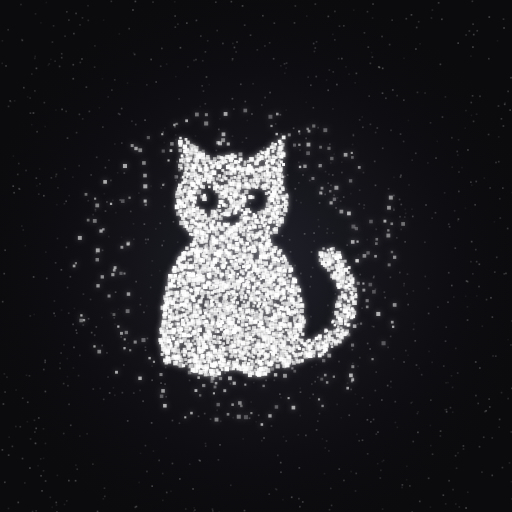
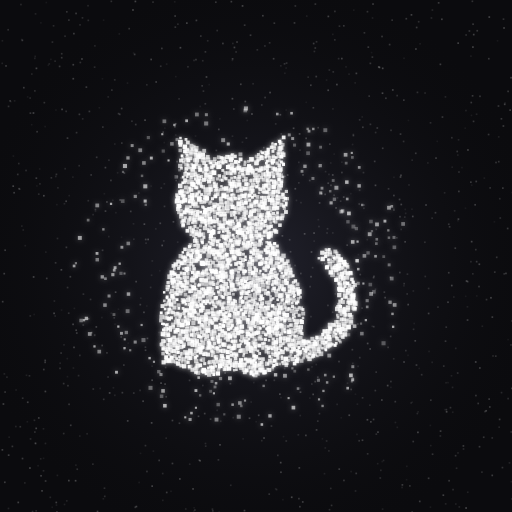
小猫改成背影；桌面新增第二页放全部应用
开屏和图标的小猫去掉眼睛鼻子，改为背影。
桌面可左右滑动翻页：第一页是原桌面，第二页按「聊天与角色 / 生活与娱乐 / 游戏与工具」分组放全部 20 个应用图标，底部页码点可点击切换。

Claude-Session: https://claude.ai/code/session_01Kju9AuUhCjB8j9UKvKX9Kv

diff --git a/fun-desk.js b/fun-desk.js
@@ -1,0 +1,109 @@
+"use strict";
+
+/**
+ * 桌面第二页：左右滑动切换，把所有 app 做成图标铺在桌面上
+ * 第一页是原来的桌面（.layout-shell 原样搬进翻页容器，不改内部结构）
+ */
+(function () {
+  const phone = document.getElementById("phone");
+  const shell = phone && phone.querySelector(".layout-shell");
+  if (!phone || !shell || document.getElementById("desk-pager")) return;
+
+  const fun = (k) => () => (typeof window.openFunApp === "function" ? window.openFunApp(k) : null);
+  const call = (fn) => () => {
+    const f = window[fn];
+    if (typeof f === "function") f();
+    else if (typeof showToast === "function") showToast("模块还在加载，稍等一下");
+  };
+  /** [名称, Phosphor 图标, 色相, 打开方式] */
+  const SECTIONS = [
+    {
+      title: "聊天与角色",
+      apps: [
+        ["聊天", "ph-chat-circle-text", 215, call("openChatListScreen")],
+        ["Bubble", "ph-chat-teardrop-dots", 280, fun("Bubble")],
+        ["角色人设", "ph-identification-card", 250, call("openCharScreen")],
+        ["世界书", "ph-book-open-text", 30, call("openWorldBookScreen")],
+        ["关系", "ph-heart-straight", 345, call("openRelationScreen")],
+        ["查岗", "ph-device-mobile-camera", 190, call("openCheckupScreen")],
+        ["漫游", "ph-footprints", 140, call("openRoamScreen")],
+        ["情侣小屋", "ph-house-simple", 335, fun("情侣小屋")]
+      ]
+    },
+    {
+      title: "生活与娱乐",
+      apps: [
+        ["音乐", "ph-music-notes", 260, fun("音乐")],
+        ["刷刷", "ph-film-strip", 0, fun("短视频")],
+        ["微博", "ph-fire", 22, fun("微博")],
+        ["Sprout", "ph-plant", 120, fun("Sprout")],
+        ["论坛", "ph-newspaper", 205, call("openForumScreen")],
+        ["Meow Mart", "ph-shopping-bag", 18, fun("Meow Mart")],
+        ["Pocket Town", "ph-house-line", 95, fun("Pocket Town")],
+        ["星座", "ph-moon-stars", 265, fun("星座")]
+      ]
+    },
+    {
+      title: "游戏与工具",
+      apps: [
+        ["游戏厅", "ph-game-controller", 300, fun("游戏厅")],
+        ["资源站", "ph-package", 175, fun("资源站")],
+        ["我的", "ph-user-circle", 230, call("openMyScreen")],
+        ["设置", "ph-gear-six", 220, call("openSettings")]
+      ]
+    }
+  ];
+
+  const pager = document.createElement("section");
+  pager.id = "desk-pager";
+  pager.className = "desk-pager";
+  shell.parentNode.insertBefore(pager, shell);
+  pager.appendChild(shell);
+  shell.classList.add("desk-page");
+
+  const page2 = document.createElement("section");
+  page2.className = "desk-page desk-apps";
+  page2.setAttribute("aria-label", "全部应用");
+  let i = 0;
+  const handlers = [];
+  page2.innerHTML = SECTIONS.map(
+    (sec) =>
+      `<p class="desk-apps-k">${sec.title}</p><div class="desk-apps-grid">${sec.apps
+        .map(([name, icon, h, fn]) => {
+          handlers.push(fn);
+          return `<button type="button" class="desk-app" data-i="${i++}" style="--h:${h}"><span class="desk-app-ico"><i class="ph ${icon}"></i></span><span class="desk-app-name">${name}</span></button>`;
+        })
+        .join("")}</div>`
+  ).join("");
+  pager.appendChild(page2);
+  page2.addEventListener("click", (e) => {
+    const b = e.target.closest(".desk-app");
+    if (b) handlers[Number(b.dataset.i)]();
+  });
+
+  const dots = document.createElement("div");
+  dots.className = "desk-dots";
+  dots.innerHTML = `<i class="is-on"></i><i></i>`;
+  phone.appendChild(dots);
+  const sync = () => {
+    const p = Math.round(pager.scrollLeft / Math.max(1, pager.clientWidth));
+    dots.children[0].classList.toggle("is-on", p === 0);
+    dots.children[1].classList.toggle("is-on", p === 1);
+  };
+  pager.addEventListener("scroll", sync, { passive: true });
+  dots.addEventListener("click", (e) => {
+    const k = [...dots.children].indexOf(e.target);
+    if (k >= 0) pager.scrollTo({ left: k * pager.clientWidth, behavior: "smooth" });
+  });
+  // 电脑上用鼠标滚轮横向切页
+  pager.addEventListener(
+    "wheel",
+    (e) => {
+      if (Math.abs(e.deltaX) > Math.abs(e.deltaY) && Math.abs(e.deltaX) > 20) {
+        e.preventDefault();
+        pager.scrollTo({ left: (e.deltaX > 0 ? 1 : 0) * pager.clientWidth, behavior: "smooth" });
+      }
+    },
+    { passive: false }
+  );
+})();

diff --git a/fun.css b/fun.css
@@ -5101,3 +5101,127 @@ body.dark .mm-dimg {
   border-color: #e60026 !important;
   color: #fff !important;
 }
+
+/* ═════════ 桌面翻页 + 第二页全部应用 ═════════ */
+.desk-pager {
+  grid-row: 3;
+  min-height: 0;
+  display: flex;
+  overflow-x: auto;
+  overflow-y: hidden;
+  scroll-snap-type: x mandatory;
+  scrollbar-width: none;
+  overscroll-behavior-x: contain;
+  -webkit-overflow-scrolling: touch;
+}
+.desk-pager::-webkit-scrollbar {
+  display: none;
+}
+.desk-pager > .desk-page {
+  flex: 0 0 100%;
+  min-width: 100%;
+  box-sizing: border-box;
+  scroll-snap-align: start;
+  scroll-snap-stop: always;
+}
+.desk-pager > .layout-shell {
+  grid-row: auto;
+  height: 100%;
+}
+.desk-apps {
+  height: 100%;
+  overflow-y: auto;
+  scrollbar-width: none;
+  padding: 14px 18px calc(30px + env(safe-area-inset-bottom, 0px));
+}
+.desk-apps::-webkit-scrollbar {
+  display: none;
+}
+.desk-apps-k {
+  margin: 10px 4px 10px;
+  font-family: "Space Mono", ui-monospace, monospace;
+  font-size: 0.56rem;
+  letter-spacing: 0.18em;
+  text-transform: uppercase;
+  color: var(--text-sub);
+}
+.desk-apps-grid {
+  display: grid;
+  grid-template-columns: repeat(4, 1fr);
+  gap: 14px 6px;
+  margin-bottom: 8px;
+}
+.desk-app {
+  --h: 220;
+  display: flex;
+  flex-direction: column;
+  align-items: center;
+  gap: 6px;
+  border: 0;
+  background: none;
+  padding: 0;
+  color: var(--text-main);
+  font: inherit;
+  cursor: pointer;
+  -webkit-tap-highlight-color: transparent;
+}
+.desk-app-ico {
+  width: 58px;
+  height: 58px;
+  border-radius: 18px;
+  display: grid;
+  place-items: center;
+  font-size: 1.65rem;
+  color: hsl(var(--h) 38% 32%);
+  background: linear-gradient(150deg, hsl(var(--h) 80% 95%), hsl(var(--h) 55% 85%));
+  box-shadow: 0 6px 16px hsl(var(--h) 40% 50% / 0.18), inset 0 1px 0 rgba(255, 255, 255, 0.7);
+  transition: transform 0.15s ease;
+}
+body.dark .desk-app-ico {
+  color: hsl(var(--h) 70% 82%);
+  background: linear-gradient(150deg, hsl(var(--h) 25% 26%), hsl(var(--h) 22% 18%));
+  box-shadow: 0 6px 16px rgba(0, 0, 0, 0.35), inset 0 1px 0 rgba(255, 255, 255, 0.06);
+}
+.desk-app:active .desk-app-ico {
+  transform: scale(0.9);
+}
+.desk-app-name {
+  font-size: 0.68rem;
+  line-height: 1.2;
+  text-align: center;
+  white-space: nowrap;
+  overflow: hidden;
+  text-overflow: ellipsis;
+  max-width: 76px;
+}
+.desk-dots {
+  position: absolute;
+  left: 50%;
+  bottom: calc(86px + env(safe-area-inset-bottom, 0px));
+  transform: translateX(-50%);
+  z-index: 3;
+  display: flex;
+  gap: 6px;
+  pointer-events: auto;
+}
+.desk-dots i {
+  width: 6px;
+  height: 6px;
+  border-radius: 6px;
+  background: var(--text-sub);
+  opacity: 0.35;
+  cursor: pointer;
+  transition: width 0.2s, opacity 0.2s;
+}
+.desk-dots i.is-on {
+  width: 16px;
+  opacity: 0.8;
+  background: var(--text-main);
+}
+.desk-pager {
+  position: relative;
+  z-index: 2;
+}
+.desk-apps {
+  position: relative;
+}

diff --git a/index.html b/index.html
@@ -98,8 +98,8 @@
       if (ok) navigator.serviceWorker.register("./sw.js", { scope: "./" }).catch(function () {});
     })();
   </script>
-  <link rel="icon" href="icons/icon-192.png?v=2" type="image/png" sizes="192x192">
-  <link rel="apple-touch-icon" href="icons/apple-touch-icon.png?v=2">
+  <link rel="icon" href="icons/icon-192.png?v=3" type="image/png" sizes="192x192">
+  <link rel="apple-touch-icon" href="icons/apple-touch-icon.png?v=3">
   <title>Meow OS</title>
   <!-- 首帧与浅色开屏同色，避免 style.css 加载前闪色 -->
   <style>
@@ -120,7 +120,7 @@
   <link rel="stylesheet" href="roam.css?v=31">
   <link rel="stylesheet" href="forum.css?v=43">
   <link rel="stylesheet" href="relation.css?v=18">
-  <link rel="stylesheet" href="fun.css?v=7">
+  <link rel="stylesheet" href="fun.css?v=9">
 </head>
 <body>
   <div class="boot-splash" id="boot-splash" aria-live="polite" aria-busy="true" aria-label="Meow OS · 开屏画面，请稍后点击进入">
@@ -216,7 +216,7 @@
       <p class="boot-splash-hint" id="boot-splash-hint">正在准备桌面与数据…</p>
     </div>
   </div>
-  <script src="boot-cat.js?v=4"></script>
+  <script src="boot-cat.js?v=5"></script>
   <script>
     /* 开屏时序（不等 app.js）；点击关闭由 db.js 内加载器接管 */
     (function () {

diff --git a/boot-cat.js b/boot-cat.js
@@ -84,27 +84,6 @@
     c.stroke();
     c.restore();
   }
-  // 圆眼睛：平时是空的，眨眼时被噪点填上；左上角留一点噪点当高光
-  function inEye(x, y) {
-    var e = [
-      [41, 31],
-      [59, 31]
-    ];
-    for (var i = 0; i < 2; i++) {
-      var hx = x - (e[i][0] - 1.4),
-        hy = y - (e[i][1] - 1.6);
-      if (hx * hx + hy * hy <= 1.6) return false; // 高光
-      var dx = (x - e[i][0]) / 4.4,
-        dy = (y - e[i][1]) / 4.8;
-      if (dx * dx + dy * dy <= 1) return true;
-    }
-    return false;
-  }
-  // 鼻子小三角也留空
-  function inNose(x, y) {
-    return y > 37 && y < 40.5 && Math.abs(x - 50) < (40.5 - y) * 0.9;
-  }
-
   function sample() {
     var size = Math.min(W, H) * 0.62;
     S = size;
@@ -153,9 +132,9 @@
         k: kind
       });
     };
+    // 背影：不画眼睛和鼻子
     body.forEach(function (p) {
-      if (inNose(p[0], p[1])) return;
-      push(p, inEye(p[0], p[1]) ? "eye" : "body");
+      push(p, "body");
     });
     tail.forEach(function (p) {
       push(p, "tail");

diff --git a/sw.js b/sw.js
@@ -1,4 +1,4 @@
-const CACHE_NAME = "xxj-pwa-v247";
+const CACHE_NAME = "xxj-pwa-v248";
 const KEEPALIVE_PERIODIC_TAG = "xxj-keepalive";
 const SCHEDULE_IDB = "xxj_sw_schedule";
 const SCHEDULE_STORE = "due";

diff --git a/db.js b/db.js
@@ -1779,6 +1779,7 @@
     "fun-weibo.js?v=1",
     "fun-sprout.js?v=1",
     "fun-mart.js?v=1",
+    "fun-desk.js?v=1",
     "share-config.js?v=3",
     "fun-share.js?v=2"
   ];
